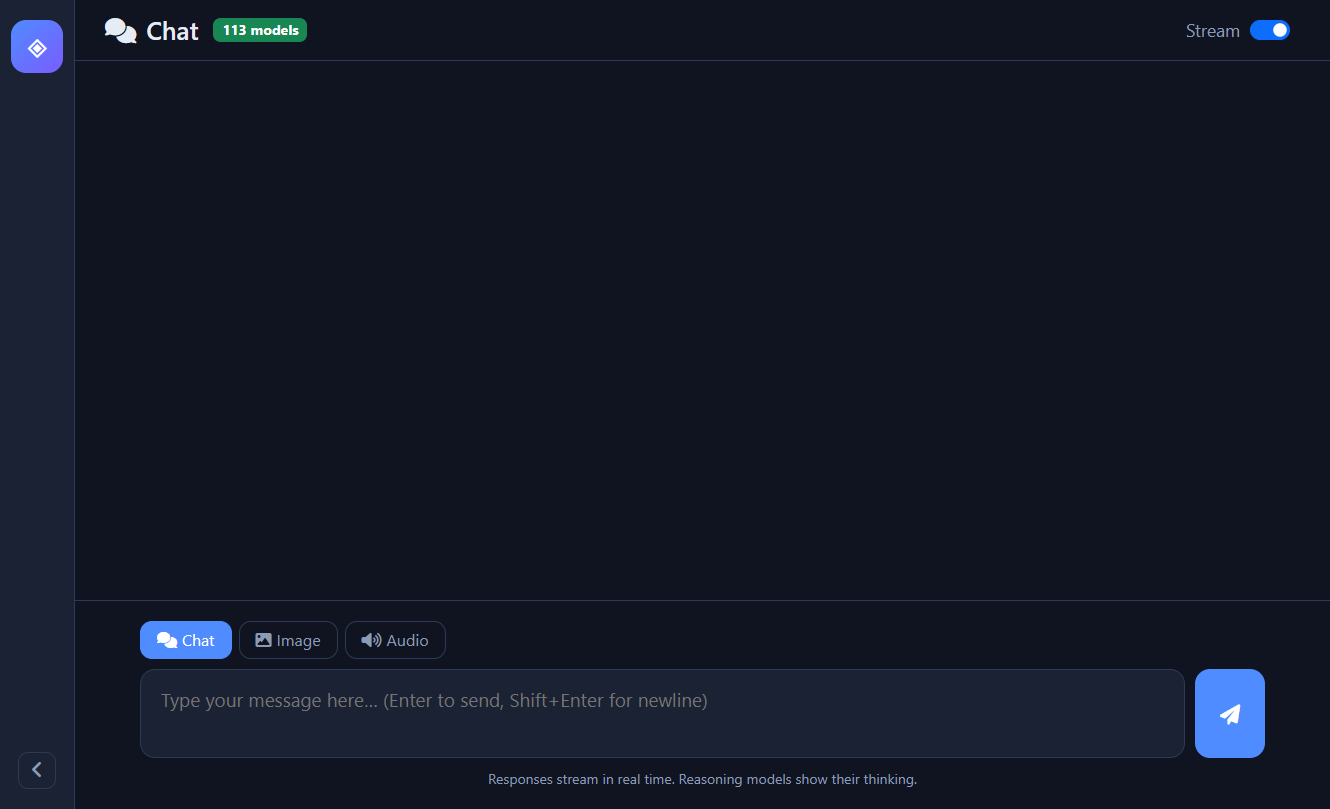
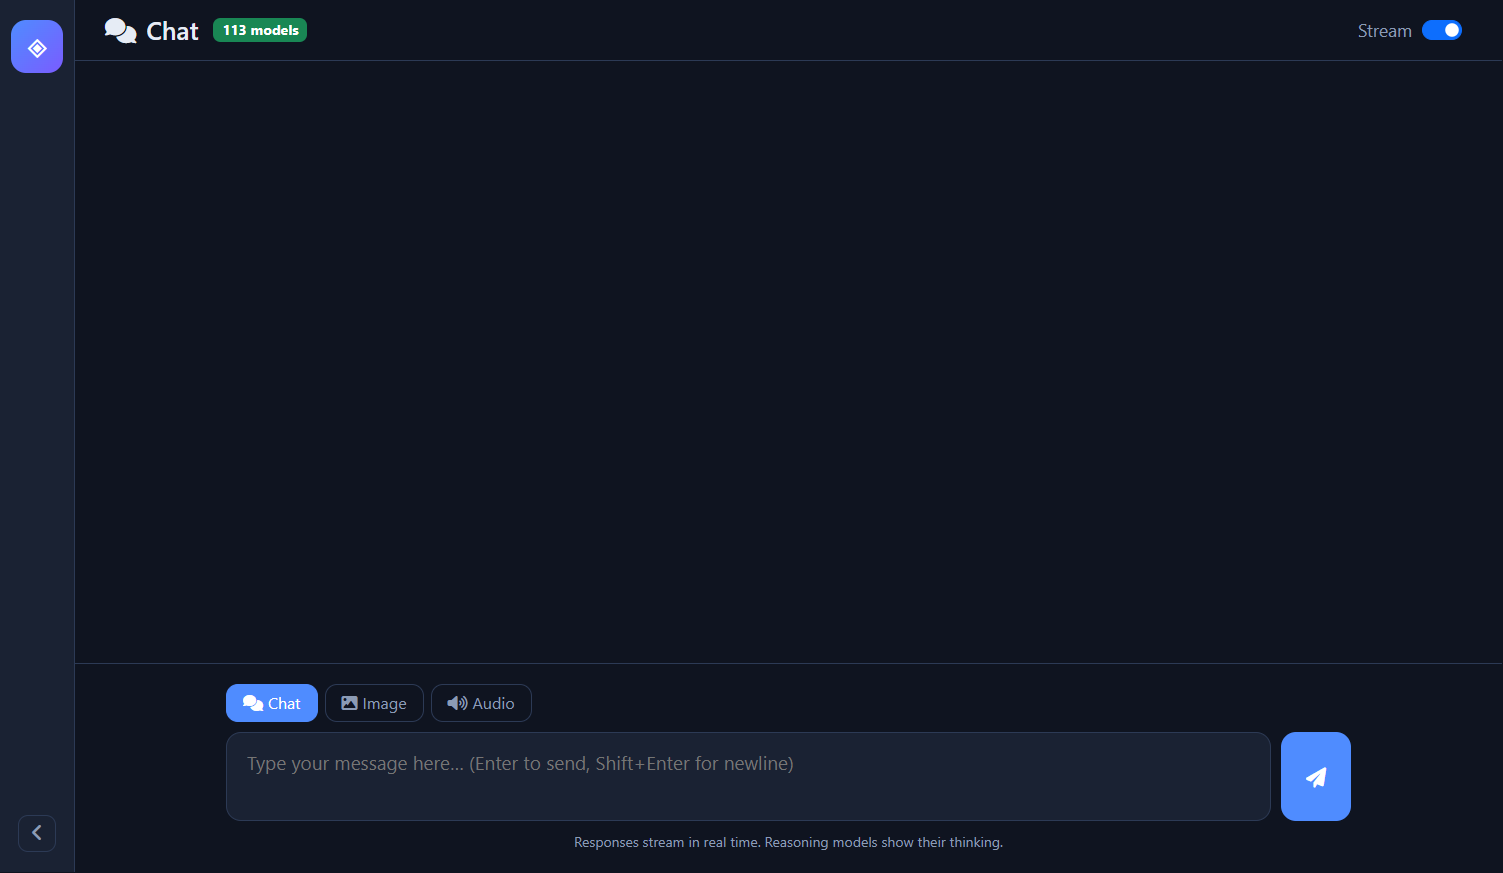
Bump app.js cache-buster to v6 for updated chat UI
The chat UI changes (brand logo, dark theme, collapsible sidebar) were
being served from a stale browser cache (old Docker-served app.js?v=5).
Bump the version query to v6 so clients refetch the updated app.js.
Re-capture the chat screenshots from the live source server.

diff --git a/static/index.html b/static/index.html
@@ -471,7 +471,7 @@
   <script src="https://cdn.jsdelivr.net/npm/bootstrap@5.3.3/dist/js/bootstrap.bundle.min.js"
     integrity="sha384-YvpcrYf0tY3lHB60NNkmXc5s9fDVZLESaAA55NDzOxhy9GkcIdslK1eN7N6jIeHz"
     crossorigin="anonymous"></script>
-  <script src="/static/app.js?v=5"></script>
+  <script src="/static/app.js?v=6"></script>
 </body>
 
 </html>
